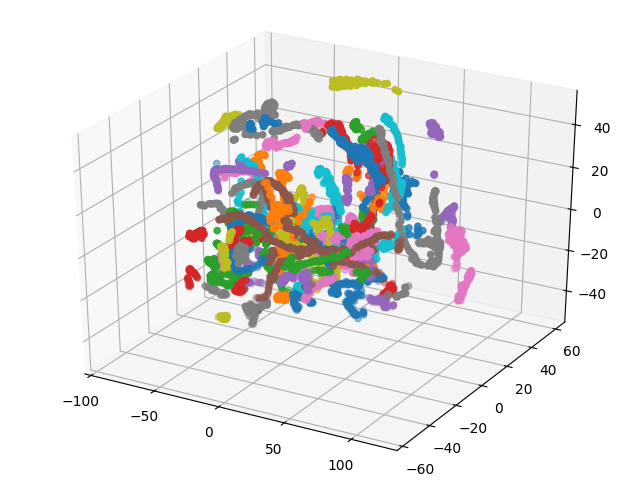
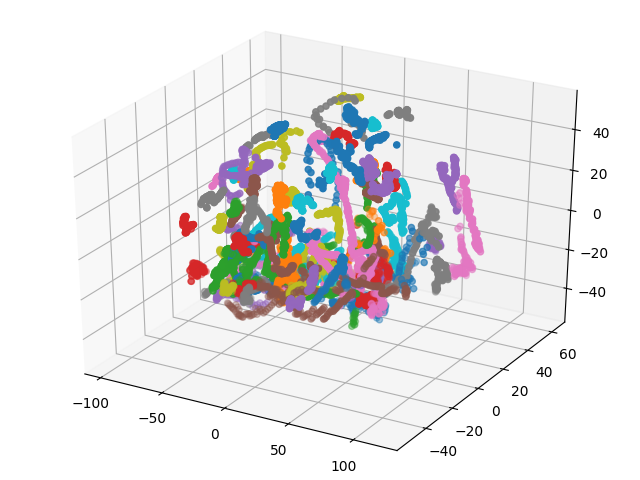
got results for everything besides kmeans

diff --git a/main_script.py b/main_script.py
@@ -11,16 +11,18 @@ from data_helper import print_accuracy
 from data_helper import apply_pca
 from data_helper import plot_pca
 
+from sklearn.preprocessing import StandardScaler
 from sklearn.ensemble import RandomForestClassifier
+from sklearn.ensemble import BaggingClassifier
+from sklearn.ensemble import AdaBoostClassifier
 from sklearn.tree import DecisionTreeClassifier
 from sklearn.neighbors import KNeighborsClassifier
 from sklearn.naive_bayes import GaussianNB
-from sklearn import svm
+from sklearn.svm import SVC
 
 def classify_svm(train_data, train_labels, test_data, test_labels, using_pca = False):
     print 'Training SVM' + (' with PCA' if using_pca else '')
-    svm_classifier = svm.SVC()
-    svm_classifier = svm_classifier.fit(train_data, train_labels)
+    svm_classifier = SVC(max_iter=100000).fit(train_data, train_labels)
     print 'Testing SVM' + (' with PCA' if using_pca else '')
     predictions = svm_classifier.predict(test_data)
     print_accuracy(predictions, test_labels)
@@ -45,14 +47,27 @@ def classify_decision_tree(train_data, train_labels, test_data, test_labels, dep
     print 'Testing Decision Tree ({} max_depth)'.format(depth) + (' with PCA' if using_pca else '')
     predictions = tree.predict(test_data)
     print_accuracy(predictions, test_labels)
+    
+def classify_bagged_tree(train_data, train_labels, test_data, test_labels, estimators, using_pca = False):    
+    print 'Training Bagged Tree ({} estimators)'.format(estimators) + (' with PCA' if using_pca else '')
+    bagged = BaggingClassifier(base_estimator = DecisionTreeClassifier(max_depth = 25), n_estimators=estimators).fit(train_data, train_labels)
+    print 'Testing Bagged Tree ({} estimators)'.format(estimators) + (' with PCA' if using_pca else '')
+    predictions = bagged.predict(test_data)
+    print_accuracy(predictions, test_labels)
+
+def classify_boosted_tree(train_data, train_labels, test_data, test_labels, estimators, using_pca = False):    
+    print 'Training Boosted Tree ({} estimators)'.format(estimators) + (' with PCA' if using_pca else '')
+    boosted = AdaBoostClassifier(base_estimator = DecisionTreeClassifier(max_depth = 25), n_estimators=estimators).fit(train_data, train_labels)
+    print 'Testing Boosted Tree ({} estimators)'.format(estimators) + (' with PCA' if using_pca else '')
+    predictions = boosted.predict(test_data)
+    print_accuracy(predictions, test_labels)
 
 def classify_random_forest(train_data, train_labels, test_data, test_labels, estimators, using_pca = False):    
     print 'Training Random Forest ({} estimators)'.format(estimators) + (' with PCA' if using_pca else '')
-    forest = RandomForestClassifier(n_estimators=estimators)
-    forest = forest.fit(train_data, train_labels)
+    forest = RandomForestClassifier(n_estimators=estimators).fit(train_data, train_labels)
     print 'Testing Random Forest ({} estimators)'.format(estimators) + (' with PCA' if using_pca else '')
     predictions = forest.predict(test_data)
-    print_accuracy(predictions, test_labels)
+    print_accuracy(predictions, test_labels)    
 
 def classify_kmeans(train_data, train_labels, test_data, test_labels, num_classes, using_pca = False):
     print 'Training KMeans' + (' with PCA' if using_pca else '')
@@ -83,11 +98,16 @@ def main():
     train_data, train_labels = load_data(True)
     test_data, test_labels = load_data(False)
 
+    # Standardize data
+    scaler = StandardScaler()
+    train_data = scaler.fit_transform(train_data)
+    test_data = scaler.transform(test_data)
+
     # Plot PCA in 3 dimensions
     #plot_pca(test_data, test_labels)
 
     # Apply PCA to data
-    train_data_pca, test_data_pca = apply_pca(train_data, test_data, 50)
+    #train_data_pca, test_data_pca = apply_pca(train_data, test_data, 50)
 
     # Start classifying
     #for i in [2, 5, 10, 25, 50, 100]:
@@ -95,18 +115,33 @@ def main():
     #    classify_random_forest(train_data, train_labels, test_data, test_labels, i)
 
     #for i in [2, 5, 10, 25, 50, 100]:
+    #    classify_boosted_tree(train_data_pca, train_labels, test_data_pca, test_labels, i, True)
+   
+    #for i in [2, 5, 10, 25, 50, 100]:
+    #    classify_bagged_tree(train_data_pca, train_labels, test_data_pca, test_labels, i, True)
+
+    #for i in [2, 5, 10, 25, 50, 100]:
     #    classify_decision_tree(train_data_pca, train_labels, test_data_pca, test_labels, i, True)
     #    classify_decision_tree(train_data, train_labels, test_data, test_labels, i)
 
-    for i in [3, 5, 7]:
-        classify_knn(train_data_pca, train_labels, test_data_pca, test_labels, i, True)
-        classify_knn(train_data, train_labels, test_data, test_labels, i)
+    #for i in [1, 3, 5, 7]:
+    #    classify_knn(train_data_pca, train_labels, test_data_pca, test_labels, i, True)
+    #    classify_knn(train_data, train_labels, test_data, test_labels, i)
+
+    #for i in [2, 3, 5, 10, 25, 50, 100]:
+    #    train_data_pca, test_data_pca = apply_pca(train_data, test_data, i)
+    #    classify_naive_bayes(train_data_pca, train_labels, test_data_pca, test_labels, True)
     #classify_naive_bayes(train_data, train_labels, test_data, test_labels)
-    #classify_naive_bayes(train_data_pca, train_labels, test_data_pca, test_labels, True)
-    #classify_svm(train_data_pca, train_labels, test_data_pca, test_labels, True)
+
+    #for i in [2, 3, 5, 10, 25, 50, 100, 150]:
+    #    train_data_pca, test_data_pca = apply_pca(train_data, test_data, i)
+    #    classify_svm(train_data_pca, train_labels, test_data_pca, test_labels, True)
     #classify_svm(train_data, train_labels, test_data, test_labels)
+
+    #for i in [2, 3, 5, 10, 25, 50, 100]:
+    #    train_data_pca, test_data_pca = apply_pca(train_data, test_data, i) 
+    #    classify_kmeans(train_data_pca, train_labels, test_data_pca, test_labels, 60, True)
     #classify_kmeans(train_data, train_labels, test_data, test_labels, 60)
-    #classify_kmeans(train_data_pca, train_labels, test_data_pca, test_labels, 60, True)
 
 if __name__ == '__main__':
     main()

diff --git a/data_helper.py b/data_helper.py
@@ -13,7 +13,6 @@ import pickle
 import cv2
 
 from sklearn.decomposition import PCA
-from sklearn.preprocessing import StandardScaler
 
 DEBUG = 3 
 TRAIN_DATA_DIRECTORY = './data/Training/'
@@ -75,23 +74,17 @@ def load_data(train, class_limit=-1):
     return X, y
 
 def apply_pca(train_data, test_data, dimensions):
-    print 'Plotting PCA in {} dimensions'.format(dimensions)
-    scaler = StandardScaler()
-    train_data_scaled = scaler.fit_transform(train_data)
-    test_data_scaled = scaler.transform(test_data)
+    print 'Applying PCA in {} dimensions'.format(dimensions)
     pcadecomp = PCA(n_components=dimensions)
-    pca_train = pcadecomp.fit_transform(train_data_scaled)
-    pca_test = pcadecomp.transform(test_data_scaled)
+    pca_train = pcadecomp.fit_transform(train_data)
+    pca_test = pcadecomp.transform(test_data)
     print 'Done'
     return pca_train, pca_test
 
 def plot_pca(data, labels):
     print 'Plotting PCA in 3 dimensions'
-    
-    scaler = StandardScaler()
-    data_scaled = scaler.fit_transform(data)
     pcadecomp = PCA(n_components=3)
-    pca_data = pcadecomp.fit_transform(data_scaled)
+    pca_data = pcadecomp.fit_transform(data)
     pca_data = np.array(pca_data)
 
     classes = list(set(labels))
